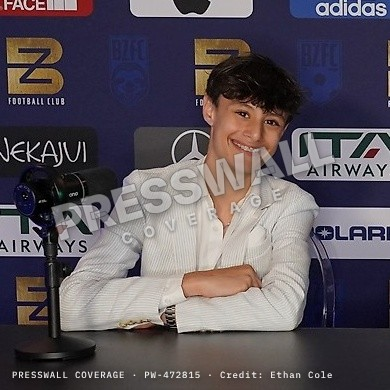
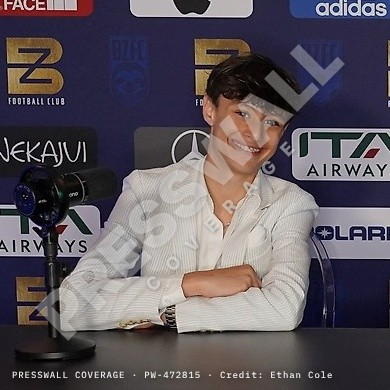
Presswall mark: bigger, corner to corner, no outline, more transparent
Claude-Session: https://claude.ai/code/session_01R4Yd9DXFZUHxv4JskfZizu

diff --git a/clients/photo-originals/make-watermarks.js b/clients/photo-originals/make-watermarks.js
@@ -40,9 +40,9 @@ const PREFIX = { pw: 'PW-',  jl: 'JL-', ss: 'BP-', bg: 'BG-' };
 .bpt span{font:800 ${px(34)} Inter;letter-spacing:.12em;color:rgba(255,255,255,.28);white-space:nowrap}
 /* Presswall Coverage: one big slanted PRESSWALL across the photo, COVERAGE under it smaller and wider */
 .pwb{inset:0;display:grid;place-items:center}
-.pwb div{position:static;transform:rotate(-16deg);display:grid;justify-items:center;gap:${px(4)}}
-.pwb b{font:900 ${px(92)} Inter;letter-spacing:-.02em;line-height:.9;color:rgba(255,255,255,.42);white-space:nowrap;-webkit-text-stroke:${Math.max(1, Math.round(1.5 * u))}px rgba(0,0,0,.28);text-shadow:0 ${px(3)} ${px(14)} rgba(0,0,0,.35)}
-.pwb i{font:800 ${px(28)} Inter;font-style:normal;letter-spacing:.78em;margin-right:-.78em;color:rgba(255,255,255,.55);white-space:nowrap;text-shadow:0 ${px(2)} ${px(8)} rgba(0,0,0,.5)}
+.pwb div{position:static;transform:rotate(-45deg);display:grid;justify-items:center;gap:${px(6)}}
+.pwb b{font:900 ${px(124)} Inter;letter-spacing:0;line-height:.9;color:rgba(255,255,255,.32);white-space:nowrap;text-shadow:0 ${px(2)} ${px(18)} rgba(0,0,0,.18)}
+.pwb i{font:800 ${px(34)} Inter;font-style:normal;letter-spacing:.8em;margin-right:-.8em;color:rgba(255,255,255,.45);white-space:nowrap;text-shadow:0 ${px(2)} ${px(8)} rgba(0,0,0,.3)}
 /* BGMEDIA: five slanted faint names across the photo, a small boxed logo in the corner */
 .bgt{left:-12%;right:-12%;top:2%;bottom:14%;transform:rotate(-20deg);display:flex;flex-direction:column;justify-content:space-between;align-items:center}
 .bgt span{font:800 ${px(42)} Archivo;font-stretch:125%;letter-spacing:.1em;color:rgba(255,255,255,.2);white-space:nowrap;text-shadow:0 0 ${px(6)} rgba(0,0,0,.08)}

diff --git a/MEMORY.md b/MEMORY.md
@@ -52,7 +52,7 @@ Last updated: Nov 27, 2026 (after v298).
    npm install
    whop apps deploy --app app_JdRDs81kkoj3CZ
    ```
-- **Latest version: v341.**
+- **Latest version: v342.**
 
 ## The site (mono theme)
 - **Pages:** Home, Pricing (products), About, Portfolio, Affiliates, Help, Legal, Get Started, Ryder Ziman (/ryderziman).
